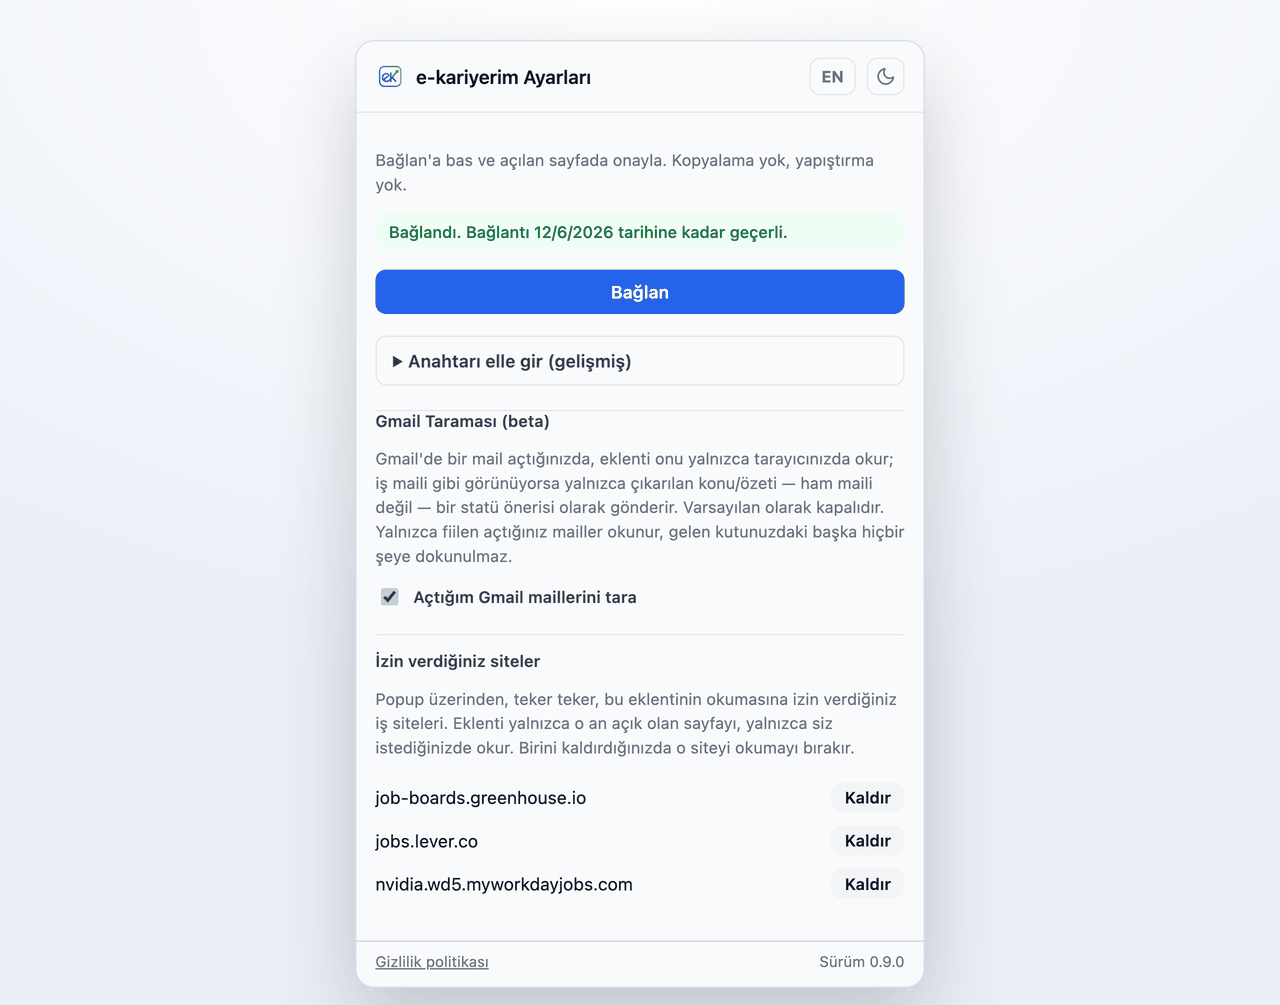
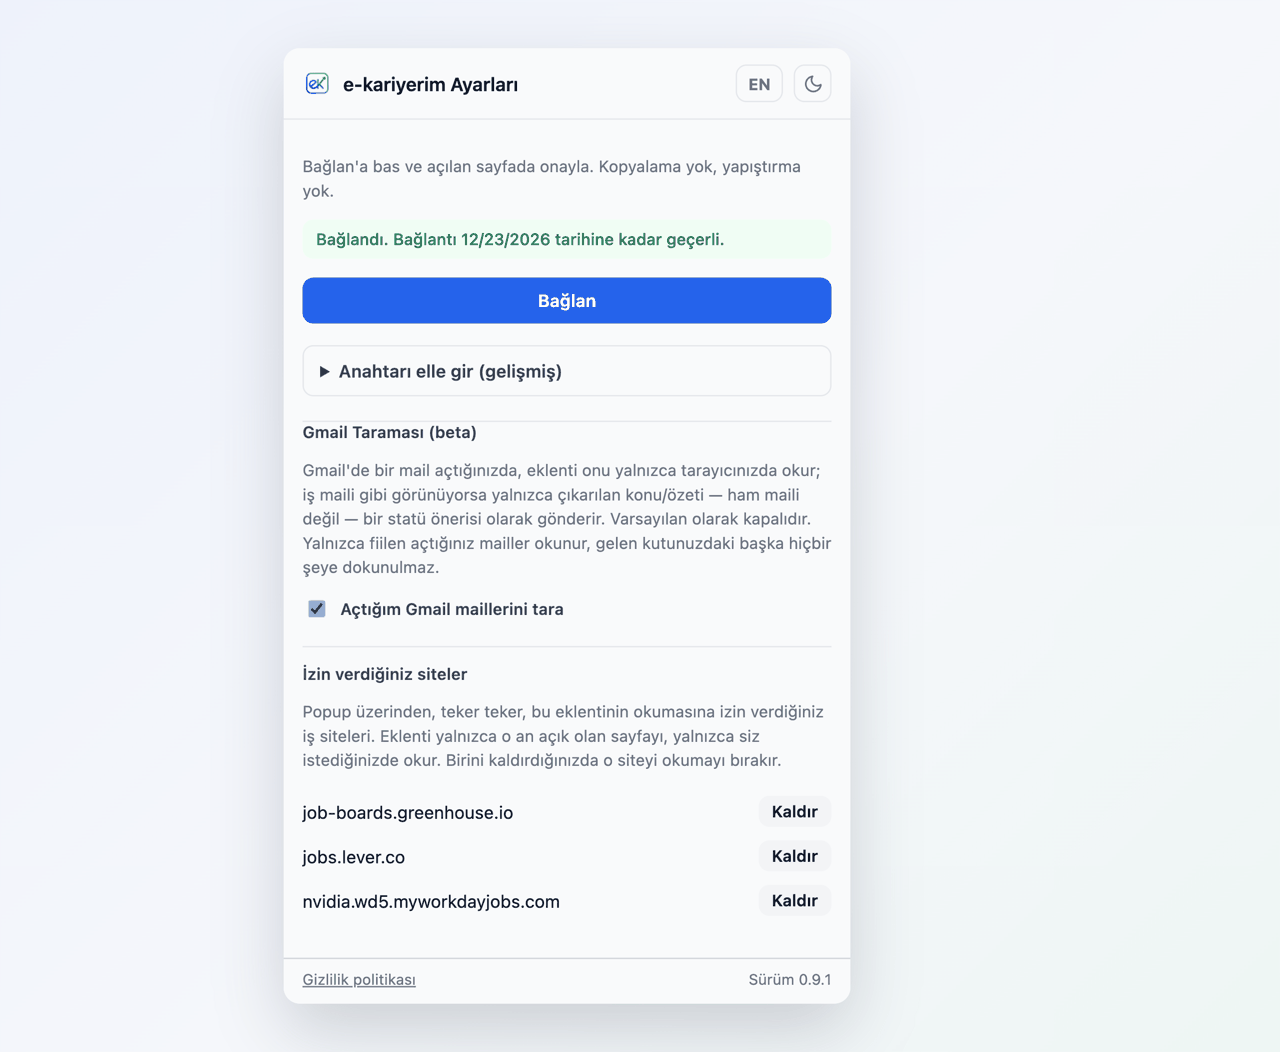
Match the popup mock's description to what it shows, and reshoot the help images for 0.9.1
The second commit on this branch put the landing's extension mock back on
the LinkedIn posting (third-party brands stay out of store screenshots),
but its accessible description still said "a Lever posting, read from the
page" and a "read from the page" string was left with no reader. A screen
reader was told about a picture that is not there. Both are back in step
with the mock: a LinkedIn posting, HR contact included.

0.9.1 is live in the Chrome Web Store, and the help centre's two extension
images still carried old builds in their footers — Settings 0.9.0, the
popup 0.6.0. Both are reshot from the real pages with the stubbed scratch
copy the screenshots README describes.

diff --git a/extension/store-listing/screenshots/README.md b/extension/store-listing/screenshots/README.md
@@ -20,6 +20,10 @@ showing the old logo. Prefer a shared asset over a copied glyph here.
 
 Last shot 2026-09-22 for `0.9.0` — `options-light.png` only.
 
+The help centre's two extension images (below) were reshot 2026-09-24 when `0.9.1` went live in
+the Store: both footers still read an old build — Settings `0.9.0`, the popup `0.6.0`. Windows
+1280×1052 (Settings, which grew by the allowed-sites list) and 1280×870 (popup).
+
 The two popup shots were reshot once, on an ATS posting with the provenance badge, and then put
 back. `0.9.0` was rejected for keyword spam over the six ATS names in its description
 (PUBLISHING_CHECKLIST.md), and the rule that came out of it covers screenshots too: Store metadata
